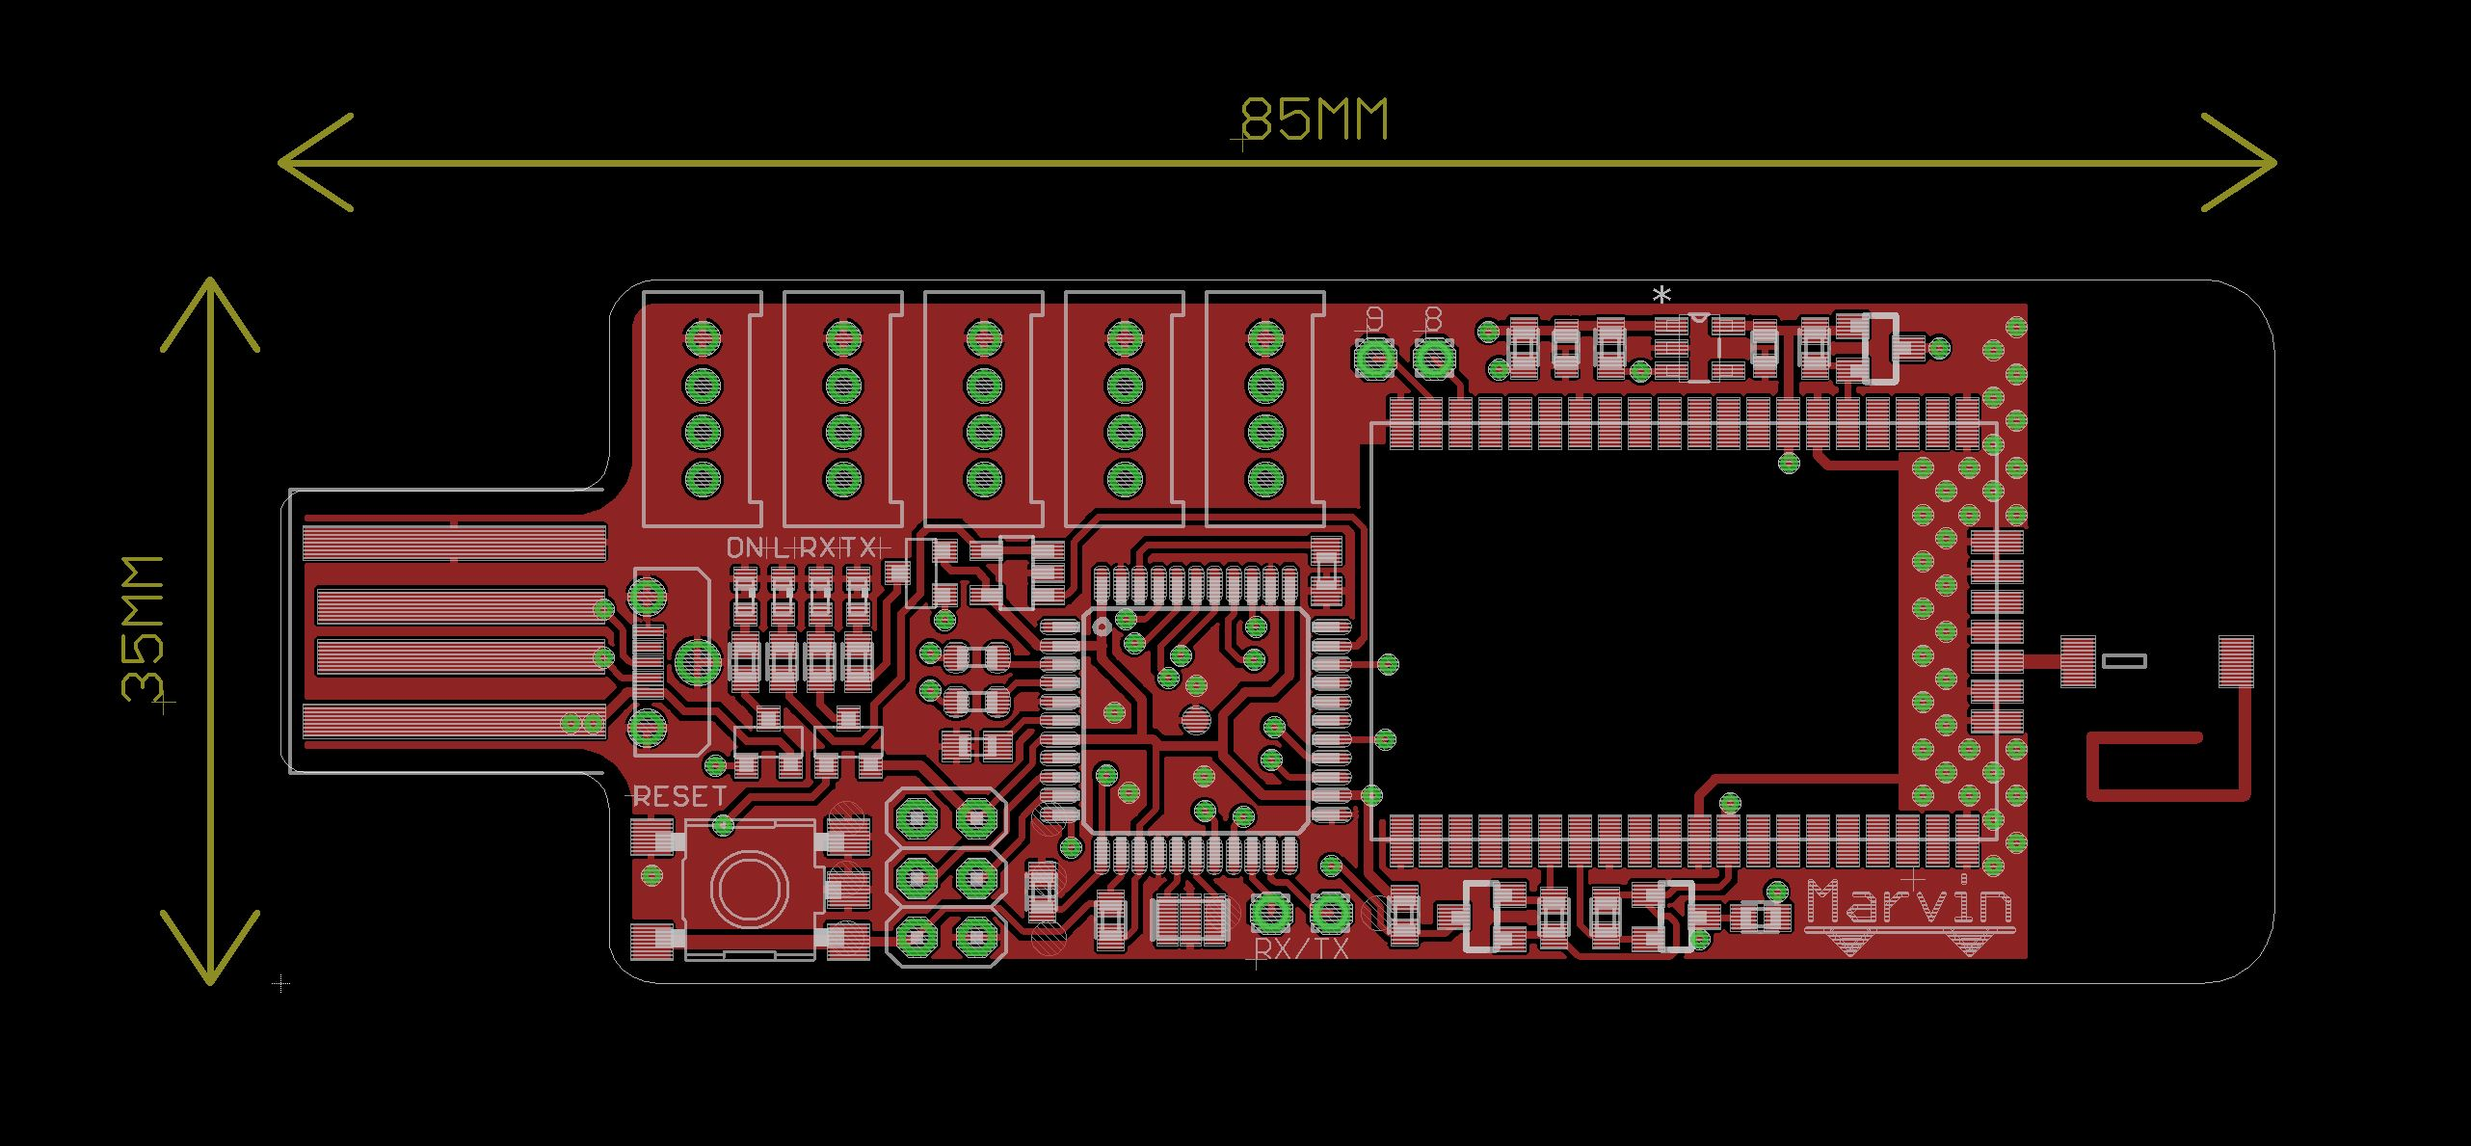
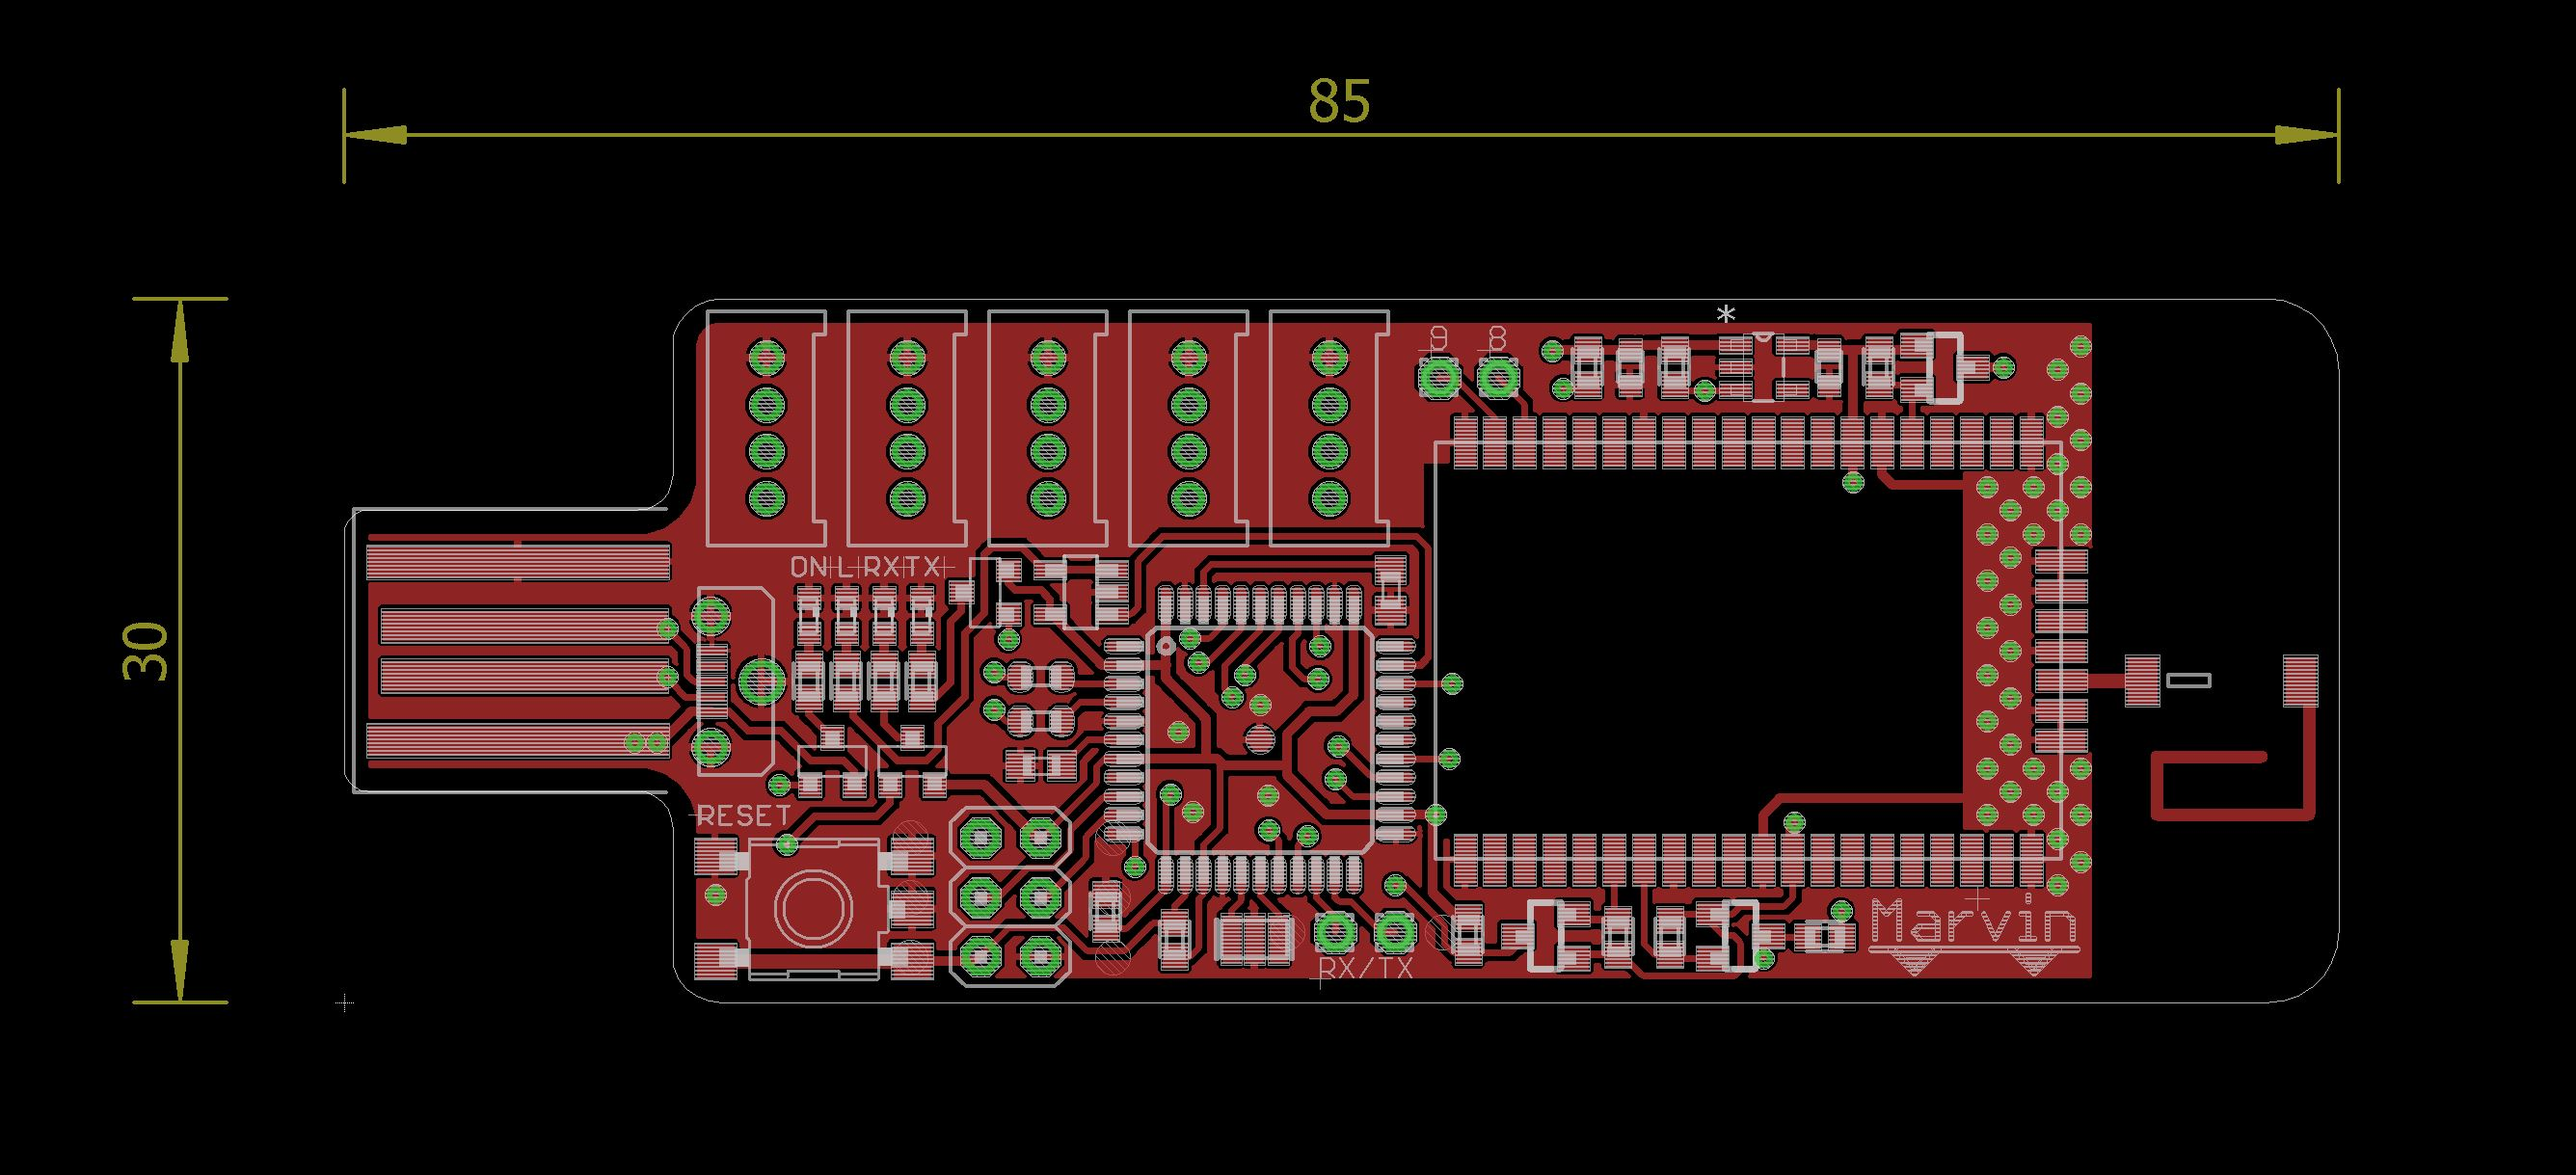
dimensions

Changed region(s): [[0.0312, 0.2489, 0.936, 0.8713], [0.0936, 0.0622, 0.936, 0.1867]]

diff --git a/Hardware/README.md b/Hardware/README.md
@@ -35,7 +35,7 @@ The antenna is a 868MHz ceramic resonator antenna with a pigtail behind it. The 
 The full size USB plug and the micro USB are linked directly together. The full size connector is used for plugging it right in your laptop, the micro USB can be used when the unit is embedded in a place where is not easily removeable and makes the system a lot more flexible.
 
 ##Dimensions
-The overal dimensions of the PCB are 85x35mm and the pcb is 2.4mm thick. This thickness is required to make the PCB fit the usb port.
+The overal dimensions of the PCB are 85x30mm and the pcb is 2.4mm thick. This thickness is required to make the PCB fit the usb port.
 
 ![Dimensions](https://raw.github.com/iotacademy/marvin/master/Hardware/Pictures/Dimensions.JPG)
 
